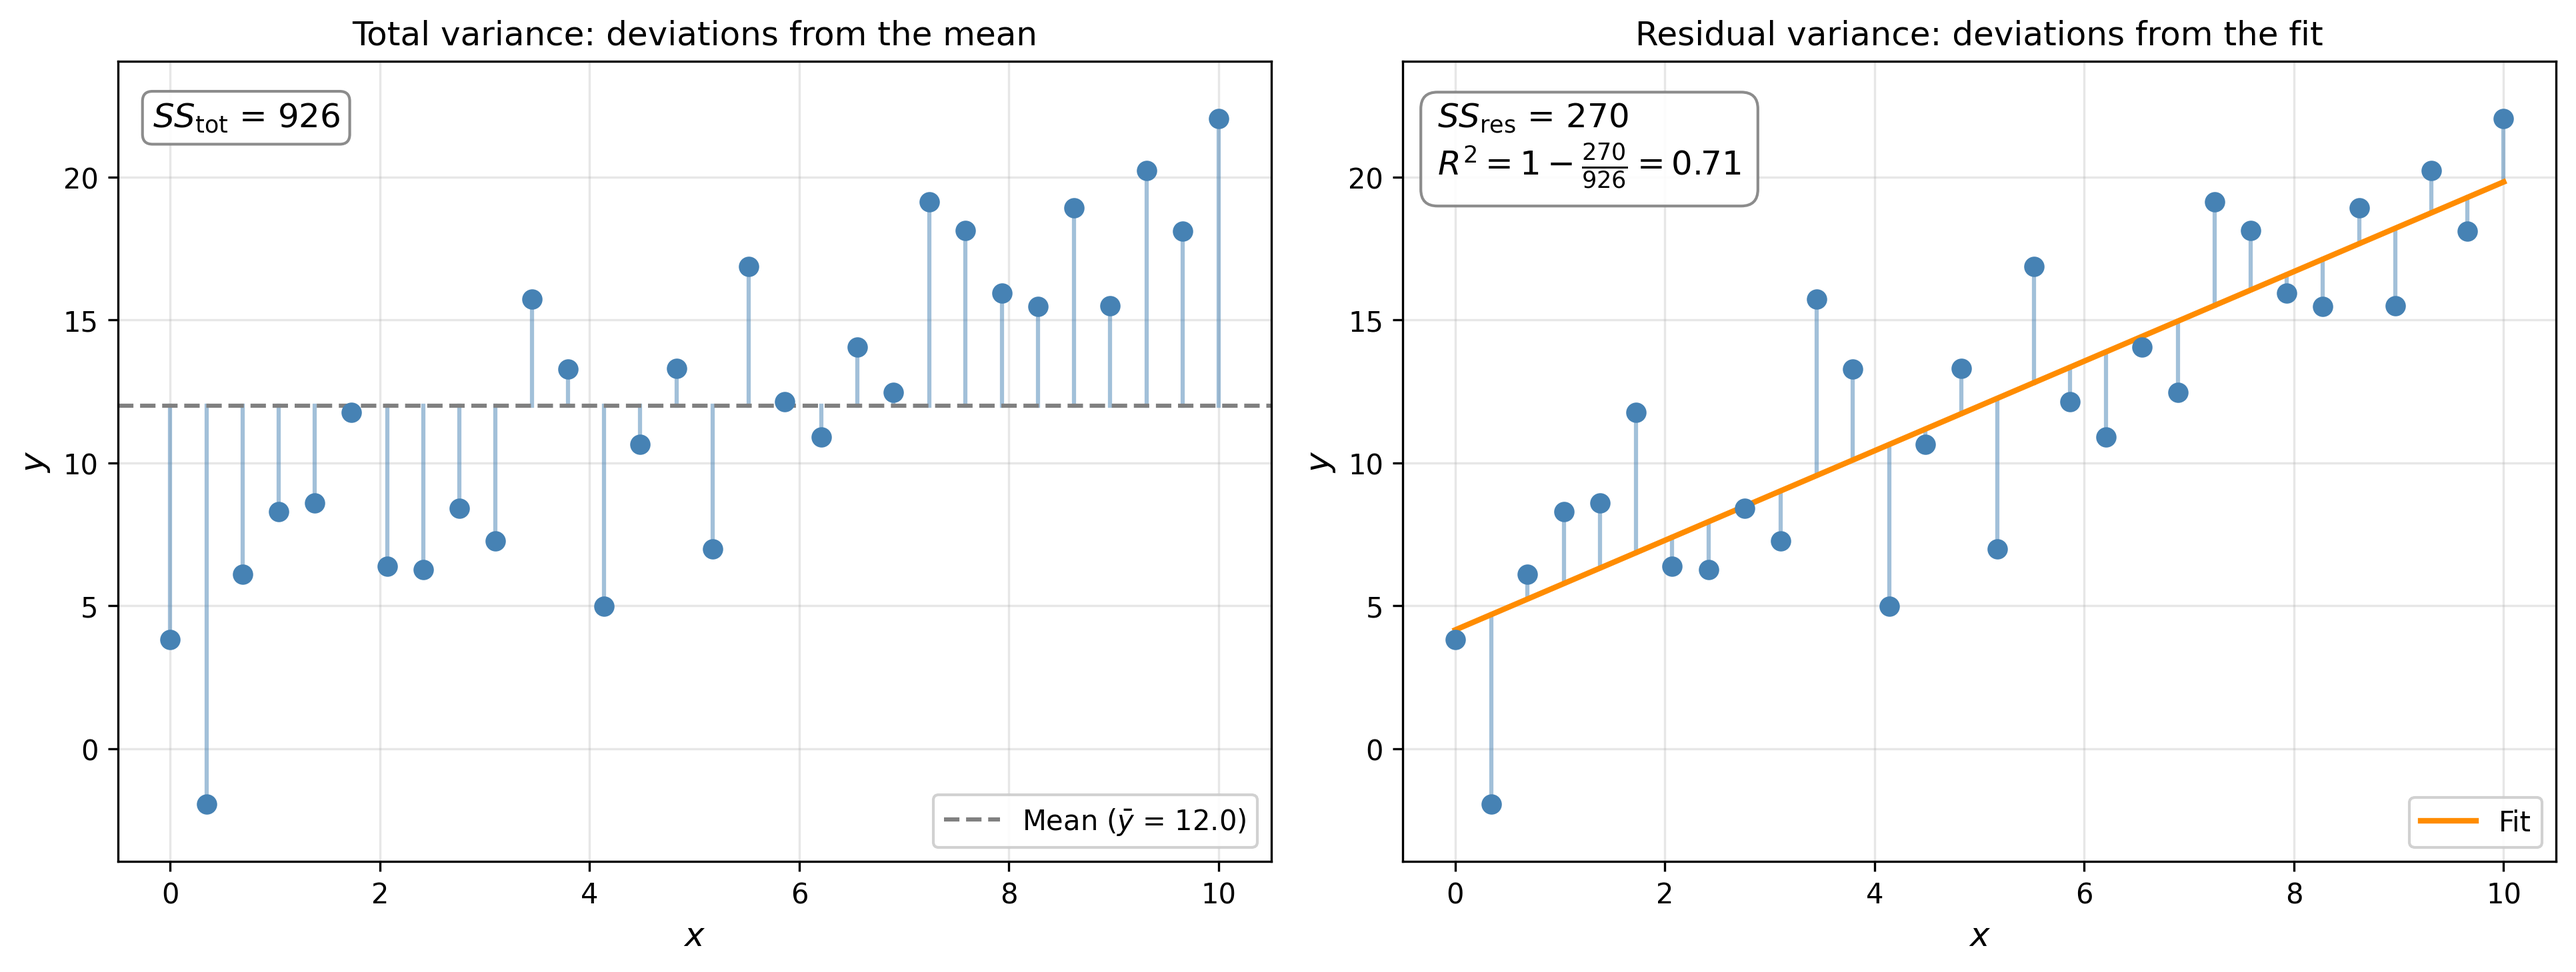
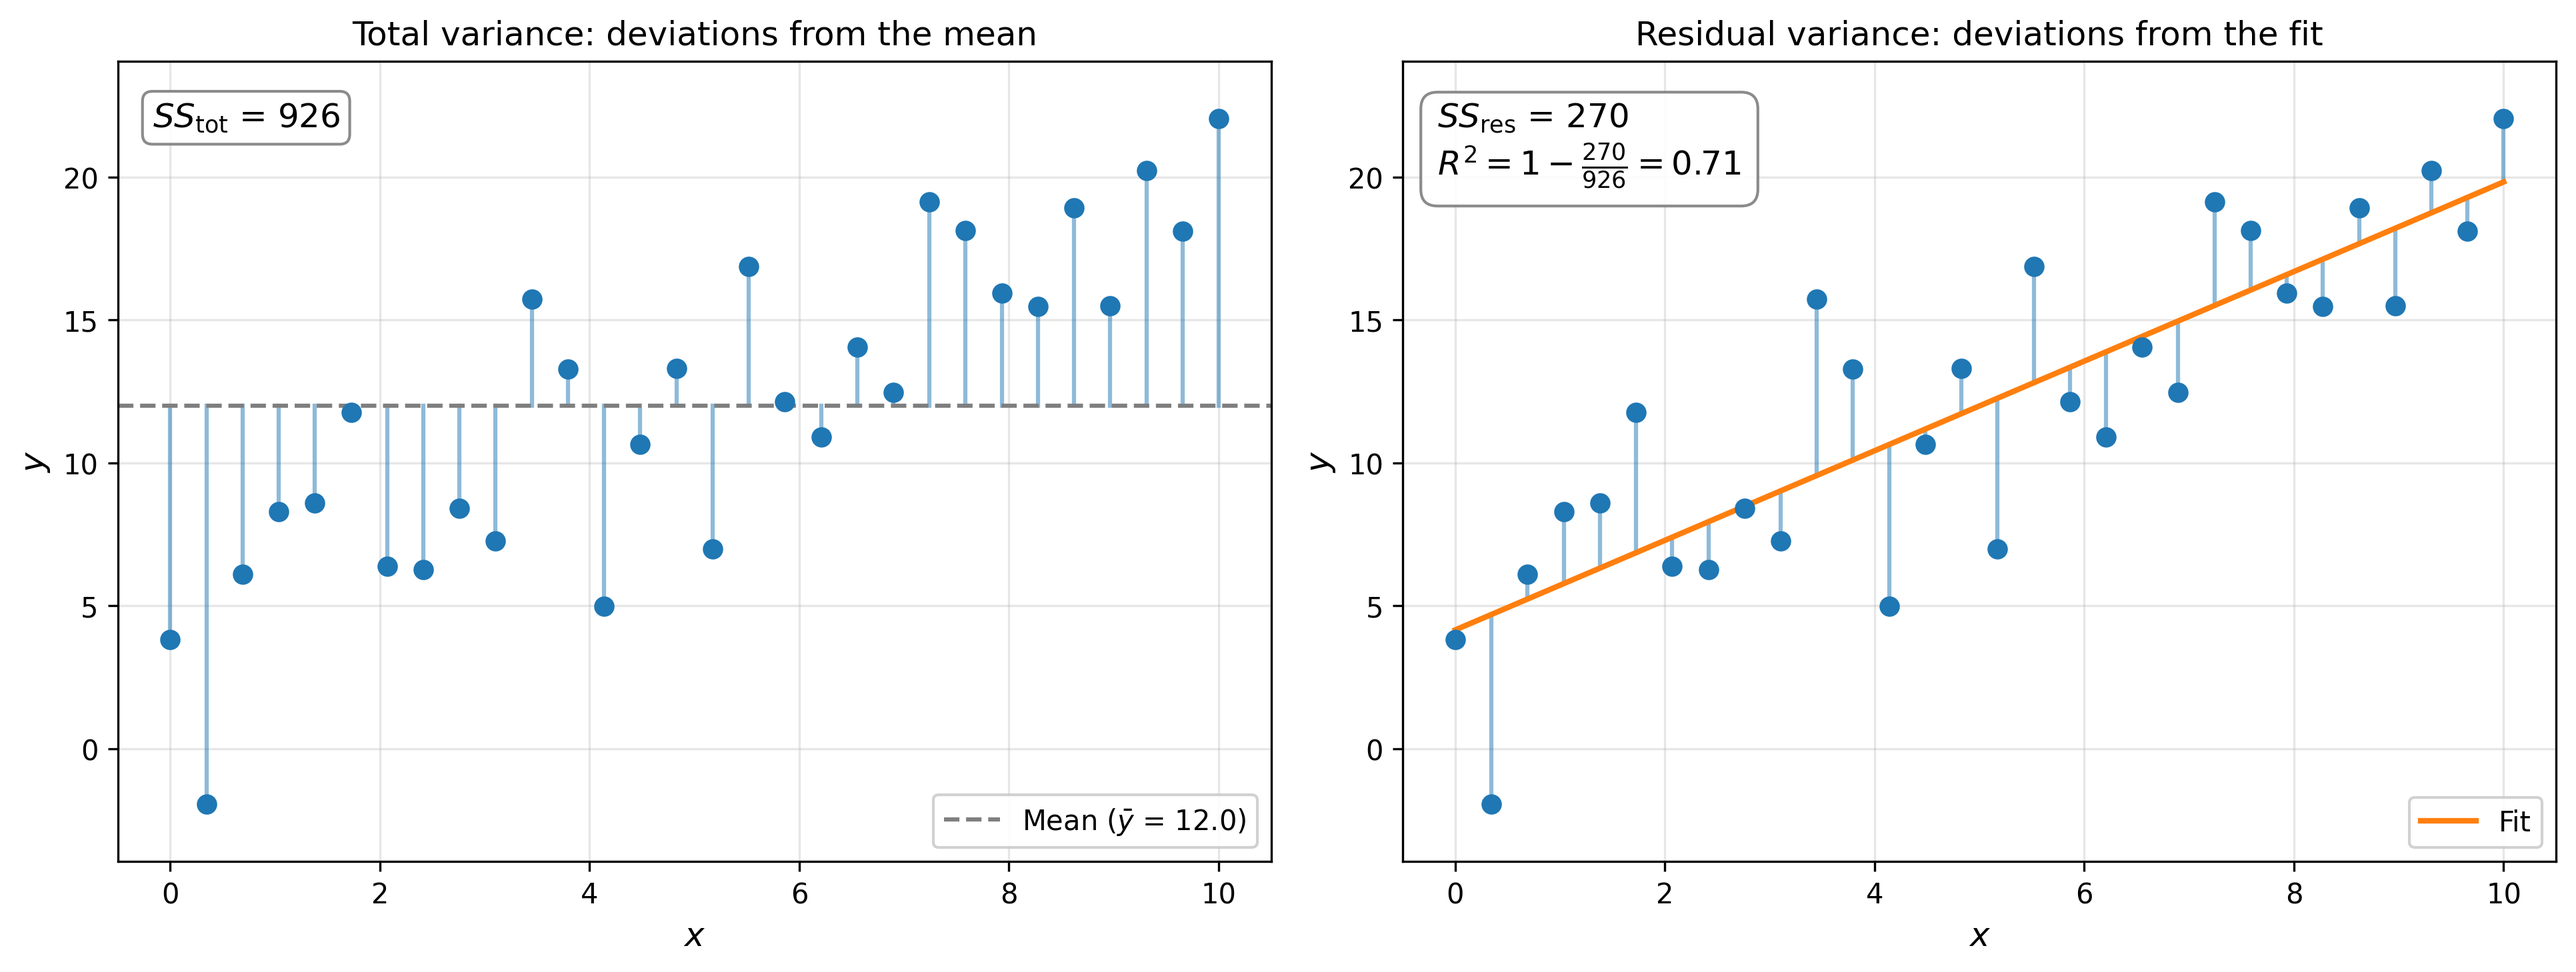
refactor(scripts): use matplotlib default palette in figures
- Replace steelblue/darkorange/firebrick/grey with tab:blue/tab:orange/tab:red/tab:gray
- Regenerate affected figures with the default tab10 colors

diff --git a/scripts/figures/ranking_metrics.py b/scripts/figures/ranking_metrics.py
@@ -31,7 +31,7 @@ def generate_precision_recall_at_k():
 
     fig, (ax_list, ax_curve) = plt.subplots(1, 2, figsize=(13, 5))
 
-    colors = ["steelblue" if r else "grey" for r in relevance]
+    colors = ["tab:blue" if r else "tab:gray" for r in relevance]
     ax_list.barh(ks, np.ones(n), color=colors, edgecolor="white", height=0.6)
     ax_list.set_yticks(ks)
     ax_list.set_yticklabels([f"Item {i}" for i in ks], fontsize=10)
@@ -42,13 +42,13 @@ def generate_precision_recall_at_k():
     for i, r in enumerate(relevance):
         label = "Relevant" if r else "Non-relevant"
         ax_list.text(1.05, i + 1, label, va="center", fontsize=10,
-                     color="steelblue" if r else "grey", fontweight="bold")
+                     color="tab:blue" if r else "tab:gray", fontweight="bold")
 
     ax_list.set_title("Ranked list with 4 relevant items")
 
-    ax_curve.plot(ks, precision, color="steelblue", marker="o", linewidth=2,
+    ax_curve.plot(ks, precision, color="tab:blue", marker="o", linewidth=2,
                   markersize=7, label="Precision@k", zorder=3)
-    ax_curve.plot(ks, recall, color="darkorange", marker="o", linewidth=2,
+    ax_curve.plot(ks, recall, color="tab:orange", marker="o", linewidth=2,
                   markersize=7, label="Recall@k", zorder=3)
     ax_curve.set_xlabel("$k$", fontsize=12)
     ax_curve.set_ylabel("Metric value", fontsize=12)
@@ -68,8 +68,8 @@ def generate_ap_comparison():
     fig, (ax_good, ax_poor) = plt.subplots(1, 2, figsize=(13, 5))
 
     for ax, relevance, color in [
-        (ax_good, good, "steelblue"),
-        (ax_poor, poor, "darkorange"),
+        (ax_good, good, "tab:blue"),
+        (ax_poor, poor, "tab:orange"),
     ]:
         ap, precision, recall = _compute_ap(relevance)
 
@@ -119,18 +119,18 @@ def generate_dcg_ndcg():
 
     fig, (ax_bars, ax_cum) = plt.subplots(1, 2, figsize=(13, 5))
 
-    ax_bars.bar(positions, discounted_gains, color="steelblue", edgecolor="white",
+    ax_bars.bar(positions, discounted_gains, color="tab:blue", edgecolor="white",
                 width=0.6, label="Discounted gain", zorder=3)
     for i, (dg, r) in enumerate(zip(discounted_gains, relevance)):
         if dg > 0:
             ax_bars.text(positions[i], dg + 0.15, f"$R={int(r)}$",
-                         ha="center", fontsize=9, color="steelblue")
+                         ha="center", fontsize=9, color="tab:blue")
 
     ax_disc = ax_bars.twinx()
-    ax_disc.plot(positions, 1.0 / discounts, color="grey", linestyle="--",
+    ax_disc.plot(positions, 1.0 / discounts, color="tab:gray", linestyle="--",
                  linewidth=2, marker="o", markersize=5, label="Discount $1/\\log_2(i+1)$")
-    ax_disc.set_ylabel("Discount factor", fontsize=12, color="grey")
-    ax_disc.tick_params(axis="y", colors="grey")
+    ax_disc.set_ylabel("Discount factor", fontsize=12, color="tab:gray")
+    ax_disc.tick_params(axis="y", colors="tab:gray")
     ax_disc.set_ylim(0, 1.15)
 
     ax_bars.set_xlabel("Rank position $i$", fontsize=12)
@@ -145,17 +145,17 @@ def generate_dcg_ndcg():
 
     ax_bars.set_title("Per-position discounted gain with discount curve")
 
-    ax_cum.plot(positions, cum_idcg, color="darkorange", linewidth=2, marker="o",
+    ax_cum.plot(positions, cum_idcg, color="tab:orange", linewidth=2, marker="o",
                 markersize=6, label=f"Ideal DCG ({cum_idcg[-1]:.2f})", zorder=3)
-    ax_cum.plot(positions, cum_dcg, color="steelblue", linewidth=2, marker="o",
+    ax_cum.plot(positions, cum_dcg, color="tab:blue", linewidth=2, marker="o",
                 markersize=6, label=f"Actual DCG ({cum_dcg[-1]:.2f})", zorder=3)
-    ax_cum.fill_between(positions, cum_dcg, cum_idcg, alpha=0.15, color="grey")
+    ax_cum.fill_between(positions, cum_dcg, cum_idcg, alpha=0.15, color="tab:gray")
 
     ax_cum.annotate(f"nDCG@{n} = {ndcg:.2f}",
                     xy=(0.97, 0.05), xycoords="axes fraction",
                     fontsize=12, ha="right", va="bottom",
                     bbox=dict(boxstyle="round,pad=0.3", facecolor="white",
-                              edgecolor="grey", alpha=0.9))
+                              edgecolor="tab:gray", alpha=0.9))
 
     ax_cum.set_xlabel("$k$", fontsize=12)
     ax_cum.set_ylabel("Cumulative DCG", fontsize=12)

diff --git a/scripts/figures/regression_metrics.py b/scripts/figures/regression_metrics.py
@@ -22,10 +22,10 @@ def generate_mse_vs_mae():
 
     fig, (ax_scatter, ax_sweep) = plt.subplots(1, 2, figsize=(13, 5))
 
-    ax_scatter.scatter(x, y_true, color="steelblue", s=40, zorder=3)
-    ax_scatter.plot(x, y_pred, color="grey", linewidth=2, label="Fit")
+    ax_scatter.scatter(x, y_true, color="tab:blue", s=40, zorder=3)
+    ax_scatter.plot(x, y_pred, color="tab:gray", linewidth=2, label="Fit")
     for i in range(n):
-        color = "firebrick" if i == outlier_idx else "steelblue"
+        color = "tab:red" if i == outlier_idx else "tab:blue"
         alpha = 0.8 if i == outlier_idx else 0.3
         lw = 2 if i == outlier_idx else 1
         ax_scatter.plot([x[i], x[i]], [y_true[i], y_pred[i]],
@@ -37,7 +37,7 @@ def generate_mse_vs_mae():
                         xy=(0.03, 0.95), xycoords="axes fraction",
                         fontsize=11, verticalalignment="top",
                         bbox=dict(boxstyle="round,pad=0.3", facecolor="white",
-                                  edgecolor="grey", alpha=0.9))
+                                  edgecolor="tab:gray", alpha=0.9))
     ax_scatter.set_title("Residuals with one outlier (red)")
     ax_scatter.set_xlabel("$x$", fontsize=12)
     ax_scatter.set_ylabel("$y$", fontsize=12)
@@ -52,9 +52,9 @@ def generate_mse_vs_mae():
         mse_values.append(np.mean(residuals ** 2))
         mae_values.append(np.mean(np.abs(residuals)))
 
-    ax_sweep.plot(outlier_magnitudes, mse_values, color="steelblue", linewidth=2,
+    ax_sweep.plot(outlier_magnitudes, mse_values, color="tab:blue", linewidth=2,
                   label="MSE (quadratic)")
-    ax_sweep.plot(outlier_magnitudes, mae_values, color="darkorange", linewidth=2,
+    ax_sweep.plot(outlier_magnitudes, mae_values, color="tab:orange", linewidth=2,
                   label="MAE (linear)")
     ax_sweep.set_title("MSE grows quadratically; MAE grows linearly")
     ax_sweep.set_xlabel("Outlier magnitude", fontsize=12)
@@ -87,15 +87,15 @@ def generate_r_squared():
 
     for i in range(n):
         ax_tot.plot([x[i], x[i]], [y_bar, y_true[i]],
-                    color="steelblue", linewidth=1.5, alpha=0.5)
-    ax_tot.scatter(x, y_true, color="steelblue", s=40, zorder=3)
-    ax_tot.axhline(y_bar, color="grey", linestyle="--", linewidth=1.5,
+                    color="tab:blue", linewidth=1.5, alpha=0.5)
+    ax_tot.scatter(x, y_true, color="tab:blue", s=40, zorder=3)
+    ax_tot.axhline(y_bar, color="tab:gray", linestyle="--", linewidth=1.5,
                    label=f"Mean ($\\bar{{y}}$ = {y_bar:.1f})")
     ax_tot.annotate(f"$SS_{{\\mathrm{{tot}}}}$ = {ss_tot:.0f}",
                     xy=(0.03, 0.95), xycoords="axes fraction",
                     fontsize=12, verticalalignment="top",
                     bbox=dict(boxstyle="round,pad=0.3", facecolor="white",
-                              edgecolor="grey", alpha=0.9))
+                              edgecolor="tab:gray", alpha=0.9))
     ax_tot.set_title("Total variance: deviations from the mean")
     ax_tot.set_xlabel("$x$", fontsize=12)
     ax_tot.set_ylabel("$y$", fontsize=12)
@@ -105,16 +105,16 @@ def generate_r_squared():
 
     for i in range(n):
         ax_res.plot([x[i], x[i]], [y_pred[i], y_true[i]],
-                    color="steelblue", linewidth=1.5, alpha=0.5)
-    ax_res.scatter(x, y_true, color="steelblue", s=40, zorder=3)
-    ax_res.plot(x, y_pred, color="darkorange", linewidth=2, label="Fit")
+                    color="tab:blue", linewidth=1.5, alpha=0.5)
+    ax_res.scatter(x, y_true, color="tab:blue", s=40, zorder=3)
+    ax_res.plot(x, y_pred, color="tab:orange", linewidth=2, label="Fit")
     ax_res.annotate(
         f"$SS_{{\\mathrm{{res}}}}$ = {ss_res:.0f}\n"
         f"$R^2 = 1 - \\frac{{{ss_res:.0f}}}{{{ss_tot:.0f}}} = {r2:.2f}$",
         xy=(0.03, 0.95), xycoords="axes fraction",
         fontsize=12, verticalalignment="top",
         bbox=dict(boxstyle="round,pad=0.5", facecolor="white",
-                  edgecolor="grey", alpha=0.9))
+                  edgecolor="tab:gray", alpha=0.9))
     ax_res.set_title("Residual variance: deviations from the fit")
     ax_res.set_xlabel("$x$", fontsize=12)
     ax_res.set_ylabel("$y$", fontsize=12)

diff --git a/scripts/figures/calibration.py b/scripts/figures/calibration.py
@@ -51,11 +51,11 @@ def generate_calibration_comparison():
 
     fig, (ax_map, ax_rel) = plt.subplots(1, 2, figsize=(13, 5))
 
-    ax_map.plot([0, 1], [0, 1], color="grey", linestyle="--", linewidth=1,
+    ax_map.plot([0, 1], [0, 1], color="tab:gray", linestyle="--", linewidth=1,
                 label="Identity (no rescaling)")
-    ax_map.plot(grid, platt_mapping, color="steelblue", linewidth=2,
+    ax_map.plot(grid, platt_mapping, color="tab:blue", linewidth=2,
                 label="Platt scaling (sigmoid)")
-    ax_map.plot(grid, isotonic_mapping, color="darkorange", linewidth=2,
+    ax_map.plot(grid, isotonic_mapping, color="tab:orange", linewidth=2,
                 label="Isotonic regression (step)")
     ax_map.set_title("Learned calibration map")
     ax_map.set_xlabel("Raw classifier score", fontsize=12)
@@ -76,13 +76,13 @@ def generate_calibration_comparison():
         y_test, isotonic_test, n_bins=n_bins, strategy="quantile",
     )
 
-    ax_rel.plot([0, 1], [0, 1], color="grey", linestyle="--", linewidth=1,
+    ax_rel.plot([0, 1], [0, 1], color="tab:gray", linestyle="--", linewidth=1,
                 label="Perfectly calibrated")
-    ax_rel.plot(mean_uncal, frac_uncal, marker="o", color="firebrick",
+    ax_rel.plot(mean_uncal, frac_uncal, marker="o", color="tab:red",
                 linewidth=2, label="Uncalibrated")
-    ax_rel.plot(mean_platt, frac_platt, marker="o", color="steelblue",
+    ax_rel.plot(mean_platt, frac_platt, marker="o", color="tab:blue",
                 linewidth=2, label="Platt scaling")
-    ax_rel.plot(mean_iso, frac_iso, marker="o", color="darkorange",
+    ax_rel.plot(mean_iso, frac_iso, marker="o", color="tab:orange",
                 linewidth=2, label="Isotonic regression")
     ax_rel.set_title("Reliability diagram")
     ax_rel.set_xlabel("Mean predicted probability", fontsize=12)

diff --git a/scripts/figures/hypothesis_testing.py b/scripts/figures/hypothesis_testing.py
@@ -20,19 +20,19 @@ def generate_power():
 
     fig, ax = plt.subplots(figsize=(10, 4.5))
 
-    ax.plot(x, y_null, color="steelblue", linewidth=2, label=r"$H_0$: $Z \sim \mathcal{N}(0, 1)$")
-    ax.plot(x, y_alt, color="darkorange", linewidth=2,
+    ax.plot(x, y_null, color="tab:blue", linewidth=2, label=r"$H_0$: $Z \sim \mathcal{N}(0, 1)$")
+    ax.plot(x, y_alt, color="tab:orange", linewidth=2,
             label=rf"$H_1$: $Z \sim \mathcal{{N}}({delta}, 1)$")
 
     # Rejection region (right tail) — shade under H1 to show power
     x_reject = np.linspace(z_crit, x[-1], 500)
     ax.fill_between(x_reject, norm.pdf(x_reject, delta, sigma),
-                    alpha=0.4, color="darkorange", label="Power ($1 - \\beta$)")
+                    alpha=0.4, color="tab:orange", label="Power ($1 - \\beta$)")
 
     # Beta region — area under H1 that falls outside the rejection region
     x_beta = np.linspace(x[0], z_crit, 500)
     ax.fill_between(x_beta, norm.pdf(x_beta, delta, sigma),
-                    alpha=0.25, color="grey", label=r"$\beta$ (Type II error)")
+                    alpha=0.25, color="tab:gray", label=r"$\beta$ (Type II error)")
 
     # Critical value line
     ax.axvline(z_crit, color="black", linestyle="--", linewidth=1)
@@ -60,7 +60,7 @@ def generate_t_vs_normal():
 
     fig, ax = plt.subplots(figsize=(10, 4.5))
 
-    ax.plot(x, norm.pdf(x), color="steelblue", linewidth=2.5,
+    ax.plot(x, norm.pdf(x), color="tab:blue", linewidth=2.5,
             label=r"$\mathcal{N}(0,1)$")
 
     for df, color in zip(dfs, colors):

diff --git a/scripts/figures/classification_metrics.py b/scripts/figures/classification_metrics.py
@@ -37,9 +37,9 @@ def generate_precision_recall_ap():
 
     fig, ax = plt.subplots(figsize=(7, 5))
 
-    ax.step(recall, precision, where="post", color="steelblue", linewidth=2,
+    ax.step(recall, precision, where="post", color="tab:blue", linewidth=2,
             label=f"PR curve (AP = {ap:.2f})")
-    ax.fill_between(recall, precision, step="post", alpha=0.25, color="steelblue",
+    ax.fill_between(recall, precision, step="post", alpha=0.25, color="tab:blue",
                     label="Average precision area")
 
     ax.set_xlabel("Recall", fontsize=12)
@@ -61,11 +61,11 @@ def generate_roc_auc():
 
     fig, ax = plt.subplots(figsize=(7, 5))
 
-    ax.plot(fpr, tpr, color="steelblue", linewidth=2,
+    ax.plot(fpr, tpr, color="tab:blue", linewidth=2,
             label=f"ROC curve (AUC = {auc:.2f})")
-    ax.fill_between(fpr, tpr, alpha=0.25, color="steelblue",
+    ax.fill_between(fpr, tpr, alpha=0.25, color="tab:blue",
                     label="AUC area")
-    ax.plot([0, 1], [0, 1], color="grey", linestyle="--", linewidth=1,
+    ax.plot([0, 1], [0, 1], color="tab:gray", linestyle="--", linewidth=1,
             label="Random classifier")
 
     ax.set_xlabel("False Positive Rate", fontsize=12)
